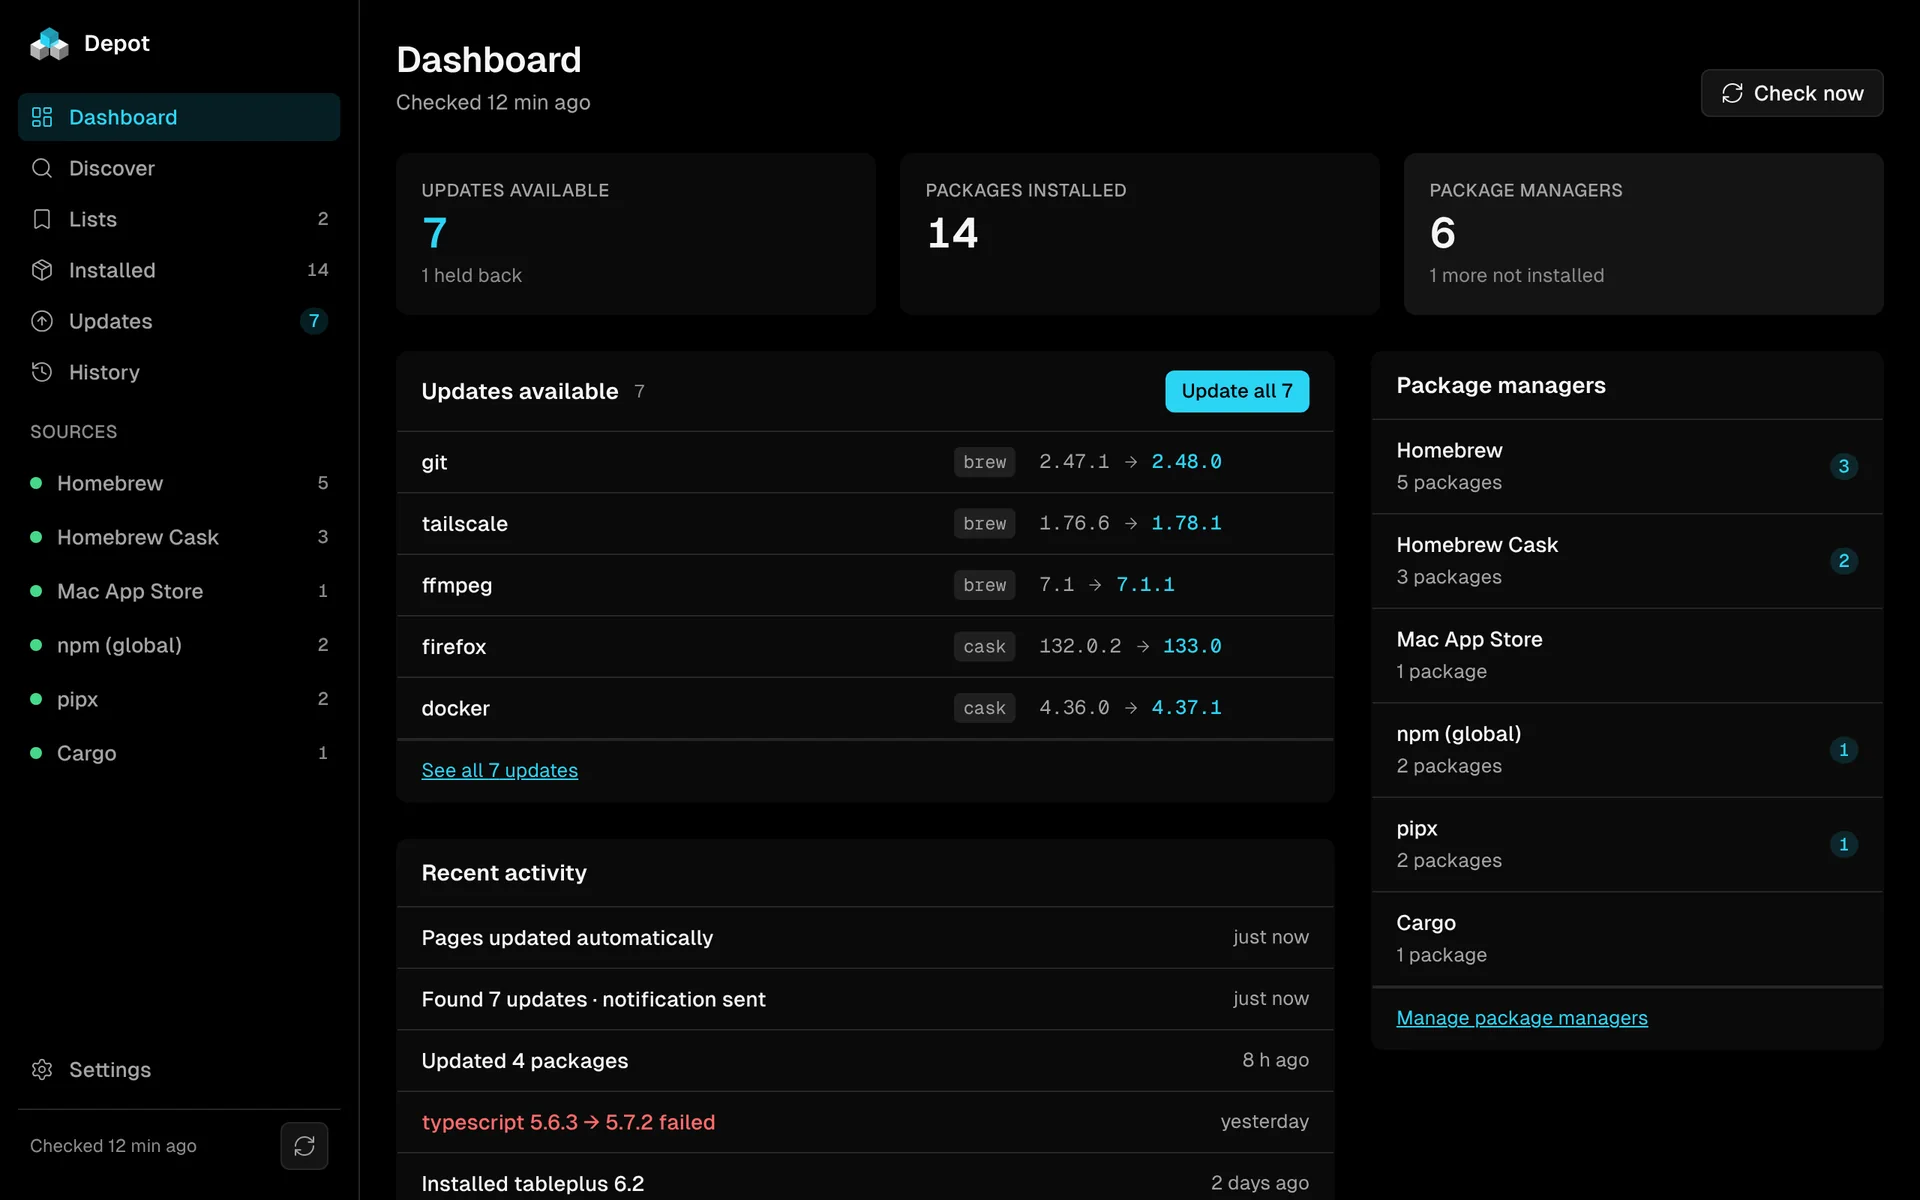
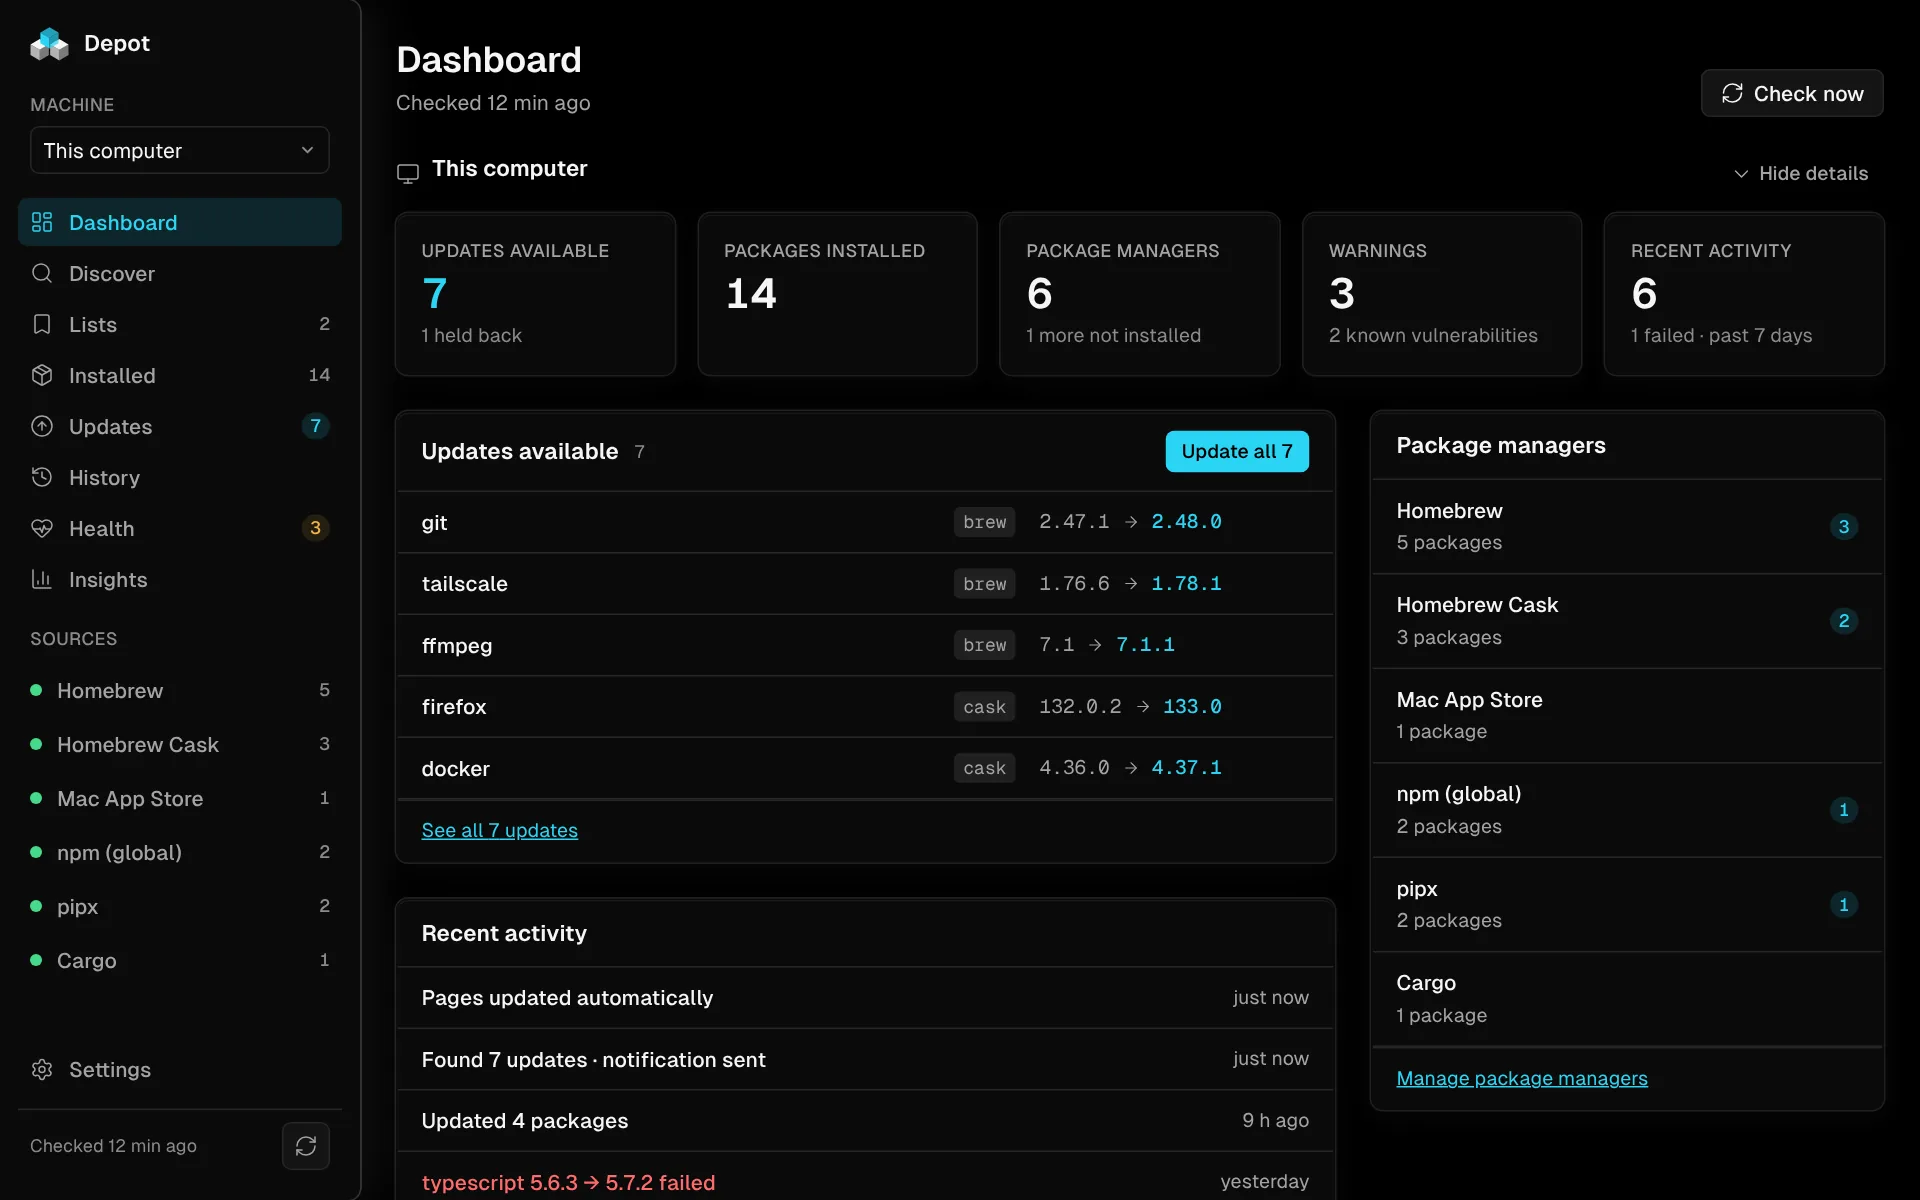
Show other machines, AI assistants, Health and Insights; refresh screenshots
Claude-Session: https://claude.ai/code/session_01UKh96ot4B3M8FiNhecNEfy

diff --git a/index.html b/index.html
@@ -4,7 +4,7 @@
   <meta charset="utf-8">
   <meta name="viewport" content="width=device-width, initial-scale=1">
   <title>Depot · every package manager, one window</title>
-  <meta name="description" content="Depot is a desktop app that puts Homebrew, the Mac App Store, npm, pipx, Cargo, winget and more behind one window. See what is installed, what has updates, and what happened.">
+  <meta name="description" content="Depot is a desktop app that puts Homebrew, the Mac App Store, npm, pipx, Cargo, winget and more behind one window, on this computer and on your other machines over SSH. See what is installed, what has updates, and what happened.">
   <meta name="theme-color" content="#000000" media="(prefers-color-scheme: dark)">
   <meta name="theme-color" content="#fafafa" media="(prefers-color-scheme: light)">
   <meta property="og:title" content="Depot">
@@ -24,6 +24,8 @@
       <a class="brand" href="#top"><img src="assets/icon.svg" alt="" width="28" height="28">Depot</a>
       <nav aria-label="Sections">
         <a href="#features">Features</a>
+        <a href="#machines">Other machines</a>
+        <a href="#assistants">AI assistants</a>
         <a href="#managers">Package managers</a>
         <a href="#preview">Preview</a>
       </nav>
@@ -34,7 +36,7 @@
     <section class="hero wrap">
       <p class="label">In preview · macOS and Windows</p>
       <h1>Every package manager.<br>One window.</h1>
-      <p class="lede">Depot shows what is installed, what has updates, and what happened, across Homebrew, the Mac App Store, npm, pipx, Cargo, winget and more. To change anything, it runs the package manager's own command, and shows you exactly what it ran.</p>
+      <p class="lede">Depot shows what is installed, what has updates, and what happened, across Homebrew, the Mac App Store, npm, pipx, Cargo, winget and more, on this computer and on your other machines. To change anything, it runs the package manager's own command, and shows you exactly what it ran.</p>
       <div class="cta">
         <a class="btn btn-primary" href="#features">See what it does</a>
         <a class="btn" href="#managers">Supported managers</a>
@@ -75,7 +77,7 @@
       <article class="feature">
         <div class="feature-text">
           <h3>The whole machine at a glance</h3>
-          <p>The Dashboard shows updates available, packages installed, package managers found and recent activity. Updates are grouped by source: select all, only majors or one manager, pin, skip a version, or read the release notes in place.</p>
+          <p>The Dashboard shows updates available, packages installed, package managers found, warnings and recent activity. Updates are grouped by source: select all, only majors or one manager, pin, skip a version, or read the release notes in place.</p>
         </div>
         <figure class="shot">
           <picture>
@@ -124,6 +126,32 @@
         </figure>
       </article>
 
+      <article class="feature">
+        <div class="feature-text">
+          <h3>Know what needs attention</h3>
+          <p>Health lists installed packages with known vulnerabilities, from <a href="https://osv.dev">OSV.dev</a>, or that their manager has deprecated, with the update that fixes each one. It also finds disk space the managers can give back, such as old versions, download caches and dependencies nothing needs, and frees it with their own cleanup commands.</p>
+        </div>
+        <figure class="shot">
+          <picture>
+            <source srcset="assets/shots/health-dark.webp" media="(prefers-color-scheme: dark)">
+            <img src="assets/shots/health-light.webp" alt="Depot's Health screen: a high-severity npm vulnerability, a pipx one with an Update to 0.8.1 button, a deprecated Homebrew formula, and 1.9 GB of disk space to clean up." width="1920" height="1200" >
+          </picture>
+        </figure>
+      </article>
+
+      <article class="feature">
+        <div class="feature-text">
+          <h3>See how it all changes</h3>
+          <p>Insights charts what is installed and what happened to it: changes per week, installs per month, size and count per manager, the largest and most-updated packages, and a dependency graph you can explore.</p>
+        </div>
+        <figure class="shot">
+          <picture>
+            <source srcset="assets/shots/insights-dark.webp" media="(prefers-color-scheme: dark)">
+            <img src="assets/shots/insights-light.webp" alt="Depot's Insights screen: disk used by packages, package changes per week, packages installed per month, and packages and disk use per manager." width="1920" height="1200" >
+          </picture>
+        </figure>
+      </article>
+
       <div class="grid">
         <div class="card tray">
           <picture>
@@ -144,9 +172,75 @@
           <p>Named sets of packages, installed or not: "Want to try", "Essentials", an uninstall queue. Each list exports and imports on its own.</p>
         </div>
         <div class="card">
+          <h3>Pin, skip or ignore</h3>
+          <p>Hold a package at its version, skip one release, or stop hearing about a package's updates altogether.</p>
+        </div>
+        <div class="card">
+          <h3>Command palette</h3>
+          <p>Press <kbd>⌘K</kbd> (<kbd>Ctrl+K</kbd> on Windows) to jump to any screen, package, update or action by typing.</p>
+        </div>
+        <div class="card">
+          <h3>Keeps itself current</h3>
+          <p>Depot checks for its own new versions and installs them when you say so, from Settings.</p>
+        </div>
+        <div class="card">
           <h3>Light and dark</h3>
           <p>Depot follows your system appearance, or the one you pick in Settings. This page does too.</p>
         </div>
+      </div>
+    </section>
+
+    <section id="machines" class="wrap features">
+      <p class="label">Other machines</p>
+      <h2 class="section-title">Your home server and your other Macs, from the same window</h2>
+
+      <article class="feature">
+        <div class="feature-text">
+          <h3>Every machine on the Dashboard</h3>
+          <p>Add a Mac or Linux machine you can reach over SSH, and Depot installs its small agent there itself. The Dashboard then sums up each machine: updates, packages, package managers, warnings and recent activity.</p>
+        </div>
+        <figure class="shot">
+          <picture>
+            <source srcset="assets/shots/machines-dark.webp" media="(prefers-color-scheme: dark)">
+            <img src="assets/shots/machines-light.webp" alt="Depot's Dashboard with this computer, a home server running Ubuntu 24.04 with 5 updates, and a Mac mini with 1 update." width="1920" height="1200" >
+          </picture>
+        </figure>
+      </article>
+
+      <article class="feature">
+        <div class="feature-text">
+          <h3>Work on it as if you were there</h3>
+          <p>Pick a machine and every screen switches to it. Installs, updates and removals run on that machine's own queue and finish even if Depot closes, and every command still appears in the log exactly as it ran. Windows machines and changes that need an administrator password are next.</p>
+        </div>
+        <figure class="shot">
+          <picture>
+            <source srcset="assets/shots/remote-dark.webp" media="(prefers-color-scheme: dark)">
+            <img src="assets/shots/remote-light.webp" alt="Depot's Updates screen for a home server reached over SSH: APT and npm updates, with a banner naming the machine, its OS and its agent version." width="1920" height="1200" >
+          </picture>
+        </figure>
+      </article>
+    </section>
+
+    <section id="assistants" class="wrap assistants">
+      <p class="label">AI assistants</p>
+      <h2 class="section-title">Let Claude check for updates, on your terms</h2>
+      <div class="extend">
+        <div>
+          <h3>Depot is an MCP server</h3>
+          <p>An assistant such as Claude Code or Claude Desktop can list packages, updates and warnings, and queue installs, updates and removals, on this computer and on your other machines.</p>
+          <p>Access is off until you turn it on in Settings, as read only or full access. What an assistant queues goes through Depot's one queue and shows in History as "AI assistant".</p>
+        </div>
+        <pre class="code"><code><span class="h"># Claude Code, on a Mac</span>
+<span class="k">claude mcp add depot -- \</span>
+  <span class="s">/Applications/Depot.app/Contents/MacOS/depot --mcp</span>
+
+<span class="h"># Read</span>
+<span class="k">list_packages</span>  <span class="k">list_updates</span>  <span class="k">get_health</span>
+<span class="k">search_packages</span>  <span class="k">get_history</span>  <span class="k">list_machines</span>
+
+<span class="h"># Change, when you allow it</span>
+<span class="s">install_packages</span>  <span class="s">update_packages</span>
+<span class="s">uninstall_packages</span>  <span class="s">check_for_updates</span></code></pre>
       </div>
     </section>
 
@@ -196,7 +290,7 @@
       <div class="download-card">
         <img src="assets/icon.svg" alt="" width="96" height="96">
         <h2>Coming soon</h2>
-        <p>Depot is in development and is being tried by a small group of testers on macOS and Windows. A public download will be here once it is ready.</p>
+        <p>Depot is in development. Version 0.2.4 is being tried by a small group of testers on macOS and Windows, and it updates itself as new versions come out. A public download will be here once it is ready.</p>
       </div>
     </section>
 
@@ -205,8 +299,10 @@
       <ol>
         <li><strong>macOS</strong><span>Nearly done</span></li>
         <li><strong>Windows</strong><span>winget, Scoop, Chocolatey, administrator prompts</span></li>
-        <li><strong>Release readiness</strong><span>Signing, installers, self-update</span></li>
+        <li><strong>Release readiness</strong><span>Installers and self-update done; signing next</span></li>
+        <li><strong>Other machines</strong><span>Macs and Linux over SSH done; Windows machines and administrator passwords next</span></li>
         <li><strong>Linux desktop</strong><span>polkit prompts, Snap</span></li>
+        <li><strong>Version managers</strong><span>nvm, mise, asdf, pyenv, rustup</span></li>
       </ol>
     </section>
   </main>

diff --git a/style.css b/style.css
@@ -65,7 +65,7 @@ img { max-width: 100%; height: auto; display: block; }
 a { color: var(--accent); text-decoration: none; }
 a:hover { color: var(--accent-hover); text-decoration: underline; }
 a:focus-visible, summary:focus-visible { outline: 2px solid var(--accent); outline-offset: 3px; border-radius: 4px; }
-code { font-family: var(--font-mono); font-size: 0.9em; background: var(--surface-2); padding: 1px 5px; border-radius: 4px; }
+code, kbd { font-family: var(--font-mono); font-size: 0.9em; background: var(--surface-2); padding: 1px 5px; border-radius: 4px; }
 h1, h2, h3 { margin: 0; letter-spacing: -0.02em; }
 p { margin: 0; }
 
@@ -186,9 +186,14 @@ details { margin-top: 8px; max-width: 560px; text-align: left; color: var(--text
 summary { cursor: pointer; color: var(--text); font-weight: 500; text-align: center; }
 details p { margin-top: 10px; }
 
+/* AI assistants */
+.assistants { margin-bottom: 120px; }
+.assistants .section-title { margin-bottom: 32px; }
+.assistants .extend { margin-top: 0; }
+
 /* Roadmap */
 .roadmap { margin-bottom: 96px; }
-.roadmap ol { list-style: none; counter-reset: step; margin: 16px 0 0; padding: 0; display: grid; grid-template-columns: repeat(4, 1fr); gap: 16px; }
+.roadmap ol { list-style: none; counter-reset: step; margin: 16px 0 0; padding: 0; display: grid; grid-template-columns: repeat(3, 1fr); gap: 24px 16px; }
 .roadmap li { counter-increment: step; border-top: 2px solid var(--border); padding-top: 14px; display: flex; flex-direction: column; gap: 4px; }
 .roadmap li:first-child { border-top-color: var(--accent); }
 .roadmap li::before { content: counter(step, decimal-leading-zero); font: 500 12px var(--font-mono); color: var(--text-muted); }

diff --git a/README.md b/README.md
@@ -3,3 +3,5 @@
 The product page for Depot, served by GitHub Pages from the `main` branch root. Plain HTML and CSS, no build step.
 
 Screenshots in `assets/shots/` are taken from the app's browser mode (`pnpm dev`, mock data) in light and dark; the page swaps them with `prefers-color-scheme`. Colors and type are the Obsidian tokens the app uses (`src/styles/tokens.css` in the app repo).
+
+The other-machines shots (`machines-*`, `remote-*`) use the same mock with two saved machines and canned agent answers passed to `createMockApi` (`machines`, `remote`); that setup lives only in the screenshot session, not in the app repo.
